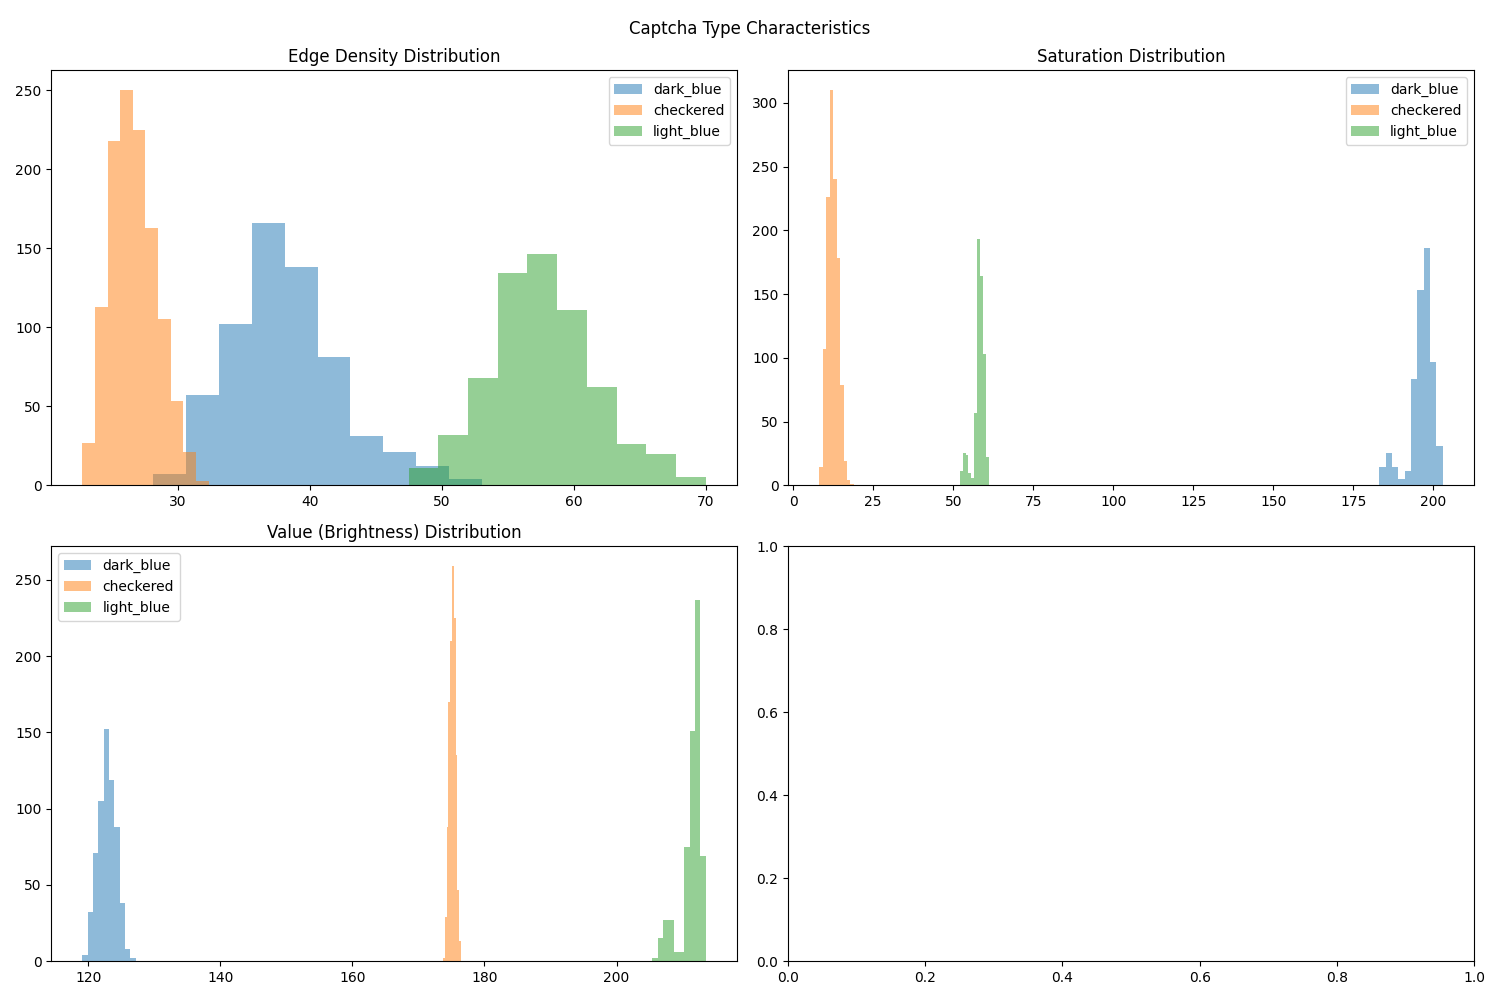
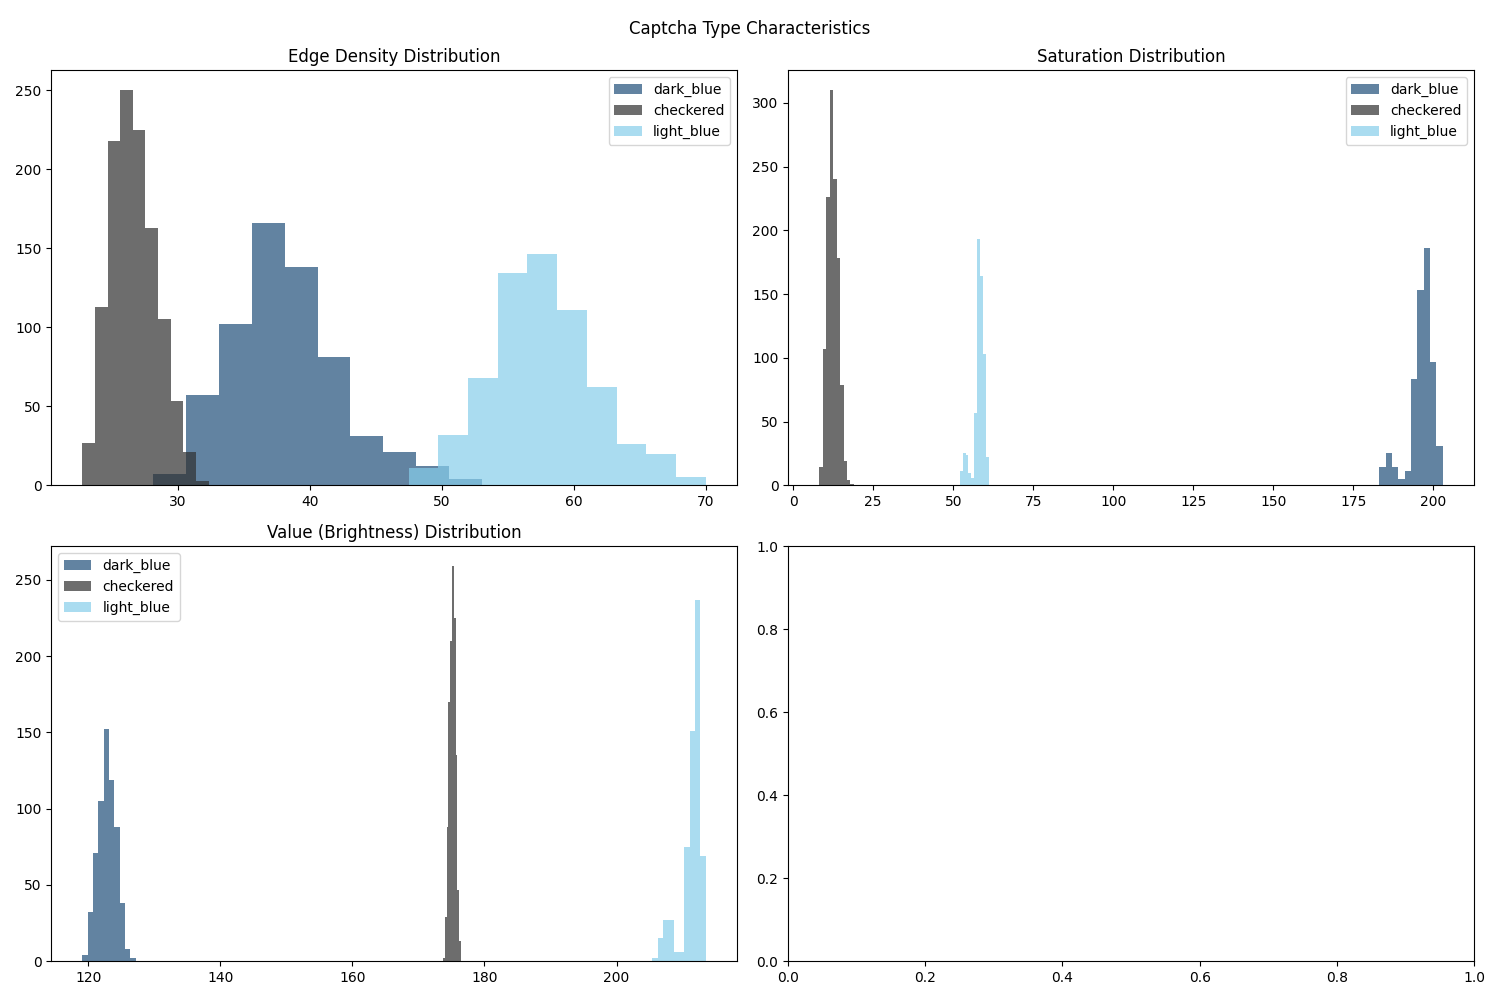
color corrections

diff --git a/eda/captcha_analysis/analyze_captcha_types.py b/eda/captcha_analysis/analyze_captcha_types.py
@@ -308,6 +308,13 @@ def plot_type_characteristics(characteristics, output_path):
         characteristics (dict): Dictionary of characteristics for each type
         output_path (str): Path to save the plots
     """
+    # Define colors for each captcha type
+    type_colors = {
+        'dark_blue': '#1f4e79',      # Dark blue
+        'light_blue': '#87ceeb',     # Light blue (sky blue)
+        'checkered': '#2f2f2f'       # Dark gray/black
+    }
+    
     # Create a figure with subplots
     fig, axes = plt.subplots(2, 2, figsize=(15, 10))
     fig.suptitle('Captcha Type Characteristics')
@@ -315,21 +322,24 @@ def plot_type_characteristics(characteristics, output_path):
     # Plot edge density distribution
     for captcha_type, data in characteristics.items():
         edge_densities = [d['edge_density'] for d in data]
-        axes[0, 0].hist(edge_densities, alpha=0.5, label=captcha_type)
+        color = type_colors.get(captcha_type, 'gray')
+        axes[0, 0].hist(edge_densities, alpha=0.7, label=captcha_type, color=color)
     axes[0, 0].set_title('Edge Density Distribution')
     axes[0, 0].legend()
     
     # Plot average saturation
     for captcha_type, data in characteristics.items():
         saturations = [d['avg_saturation'] for d in data]
-        axes[0, 1].hist(saturations, alpha=0.5, label=captcha_type)
+        color = type_colors.get(captcha_type, 'gray')
+        axes[0, 1].hist(saturations, alpha=0.7, label=captcha_type, color=color)
     axes[0, 1].set_title('Saturation Distribution')
     axes[0, 1].legend()
     
     # Plot average value
     for captcha_type, data in characteristics.items():
         values = [d['avg_value'] for d in data]
-        axes[1, 0].hist(values, alpha=0.5, label=captcha_type)
+        color = type_colors.get(captcha_type, 'gray')
+        axes[1, 0].hist(values, alpha=0.7, label=captcha_type, color=color)
     axes[1, 0].set_title('Value (Brightness) Distribution')
     axes[1, 0].legend()
     
